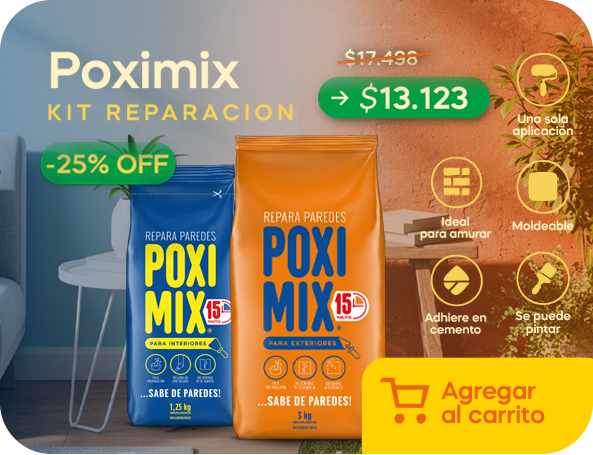
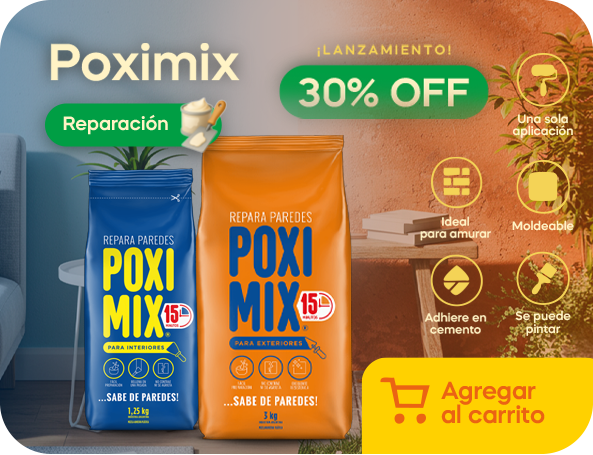
feat: Mejoras en UI, búsqueda y componentes
- Actualización de imágenes promocionales de combos
- Nueva imagen combo eco
- Mejoras en página de búsqueda
- Optimizaciones en CombosSection
- Mejoras en ShopDetailModal
- Actualizaciones en OrderDetailEnterprise
- Optimización de quick-add-suggestions
- Mejoras en useSearchOptimized hook
- Actualizaciones en dynamic-seo-manager

Mejoras de UX/UI:
- Mejores imágenes de promociones
- Búsqueda optimizada
- Componentes más responsivos

Verificación de seguridad:
✅ Sin credenciales expuestas
✅ Solo mejoras de UI y optimizaciones

diff --git a/src/components/Home/CombosSection/index.tsx b/src/components/Home/CombosSection/index.tsx
@@ -1,11 +1,13 @@
 'use client'
 
 import React, { useState, useEffect, useRef } from 'react'
+import Link from 'next/link'
 
-const combosImages = [
-  '/images/promo/combopoximix.png',
-  '/images/promo/comboverano.png',
-  '/images/promo/comboplavicon.png',
+const combosData = [
+  { image: '/images/promo/combobanner.png', url: '/search?search=Piscinas' },
+  { image: '/images/promo/comboeco.png', url: '/search?search=Ecopainting' },
+  { image: '/images/promo/comboplavicon.png', url: '/search?search=Plavicon+Muros' },
+  { image: '/images/promo/combopoximix.png', url: '/search?search=Poximix' }
 ]
 
 const CombosSection: React.FC = () => {
@@ -14,7 +16,7 @@ const CombosSection: React.FC = () => {
   const containerRef = useRef<HTMLDivElement>(null)
 
   // Duplicar las imágenes para crear efecto infinito
-  const infiniteImages = [...combosImages, ...combosImages]
+  const infiniteData = [...combosData, ...combosData]
 
   // Scroll automático infinito
   useEffect(() => {
@@ -27,7 +29,7 @@ const CombosSection: React.FC = () => {
 
   // Manejar el reinicio del scroll infinito
   useEffect(() => {
-    if (currentIndex === combosImages.length) {
+    if (currentIndex === combosData.length) {
       // Cuando llegamos al final de las imágenes originales, esperamos a que termine la transición
       const timeout = setTimeout(() => {
         setIsTransitioning(false)
@@ -54,13 +56,15 @@ const CombosSection: React.FC = () => {
               className={`flex ${isTransitioning ? 'transition-transform duration-300 ease-in-out' : ''}`}
               style={{ transform: `translateX(-${currentIndex * 100}%)` }}
             >
-              {infiniteImages.map((image, index) => (
+              {infiniteData.map((combo, index) => (
                 <div key={index} className='w-full flex-shrink-0'>
-                  <img
-                    src={image}
-                    alt={`Combo promocional ${(index % combosImages.length) + 1}`}
-                    className='w-full h-auto object-contain max-h-[300px] md:max-h-[400px]'
-                  />
+                  <Link href={combo.url} className='block'>
+                    <img
+                      src={combo.image}
+                      alt={`Combo promocional ${(index % combosData.length) + 1}`}
+                      className='w-full h-auto object-contain max-h-[300px] md:max-h-[400px] hover:scale-105 transition-transform duration-300 cursor-pointer hover:shadow-xl rounded-2xl'
+                    />
+                  </Link>
                 </div>
               ))}
             </div>

diff --git a/src/components/admin/orders/OrderDetailEnterprise.tsx b/src/components/admin/orders/OrderDetailEnterprise.tsx
@@ -377,9 +377,9 @@ export const OrderDetailEnterprise: React.FC<OrderDetailEnterpriseProps> = ({
         <div className='space-y-4'>
           {order.order_items?.map((item, index) => (
             <div key={item.id} className='flex items-center gap-4 p-4 border rounded-lg'>
-              {item.products?.images?.[0] && (
+              {(item.products?.images?.previews?.[0] || item.products?.images?.thumbnails?.[0]) && (
                 <img
-                  src={item.products.images[0]}
+                  src={item.products.images?.previews?.[0] || item.products.images?.thumbnails?.[0]}
                   alt={item.products.name}
                   className='w-16 h-16 object-cover rounded'
                 />

diff --git a/src/components/ShopDetails/ShopDetailModal.tsx b/src/components/ShopDetails/ShopDetailModal.tsx
@@ -1605,10 +1605,12 @@ export const ShopDetailModal: React.FC<ShopDetailModalProps> = ({
       return sanitize(c?.url || c?.image_url)
     }
     const candidates: any[] = [
-      (fullProductData as any)?.images?.[0],
+      (fullProductData as any)?.images?.previews?.[0],
+      (fullProductData as any)?.images?.thumbnails?.[0],
       fullProductData?.images?.main,
       fullProductData?.images?.gallery?.[0],
-      (product as any)?.images?.[0],
+      (product as any)?.images?.previews?.[0],
+      (product as any)?.images?.thumbnails?.[0],
       product?.image,
     ]
     for (const c of candidates) {

diff --git a/src/hooks/useSearchOptimized.ts b/src/hooks/useSearchOptimized.ts
@@ -230,7 +230,7 @@ export function useSearchOptimized(options: UseSearchOptimizedOptions = {}) {
             (product as any)?.image ||
             (product as any)?.thumbnail ||
             (product as any)?.img ||
-            (Array.isArray((product as any)?.images) ? (product as any)?.images?.[0] : undefined)
+            (Array.isArray((product as any)?.images) ? (product as any)?.images?.[0] : (product as any)?.images?.previews?.[0] || (product as any)?.images?.thumbnails?.[0])
 
           // Construir badges inteligentes: medida, color, oferta, nuevo
           const badges: string[] = []

diff --git a/src/components/ui/quick-add-suggestions.tsx b/src/components/ui/quick-add-suggestions.tsx
@@ -142,7 +142,7 @@ const QuickAddSuggestions: React.FC<QuickAddSuggestionsProps> = ({
                 {/* Imagen del producto */}
                 <div className='w-16 h-16 bg-gray-200 rounded-xl overflow-hidden flex-shrink-0 shadow-sm border border-gray-300'>
                   <Image
-                    src={getValidImageUrl(product.images?.[0])}
+                    src={getValidImageUrl(product.images?.previews?.[0] || product.images?.thumbnails?.[0])}
                     alt={product.name}
                     width={64}
                     height={64}

diff --git a/src/app/search/page.tsx b/src/app/search/page.tsx
@@ -234,7 +234,7 @@ export default function SearchPage() {
               const discount = hasDiscount
                 ? `${Math.round((1 - (product.discounted_price as number) / product.price) * 100)}%`
                 : undefined
-              const image = product.images?.[0] || '/images/products/placeholder.svg'
+              const image = product.images?.previews?.[0] || product.images?.thumbnails?.[0] || '/images/products/placeholder.svg'
 
               return (
                 <CommercialProductCard

diff --git a/src/lib/seo/dynamic-seo-manager.ts b/src/lib/seo/dynamic-seo-manager.ts
@@ -994,7 +994,7 @@ class DynamicSEOManager {
     }
 
     const canonical = product.slug ? `${SITE_CONFIG.url}/products/${product.slug}` : SITE_CONFIG.url
-    const ogImage = product.images?.[0] || SITE_CONFIG.defaultImage
+    const ogImage = product.images?.previews?.[0] || product.images?.thumbnails?.[0] || SITE_CONFIG.defaultImage
 
     return {
       title,
